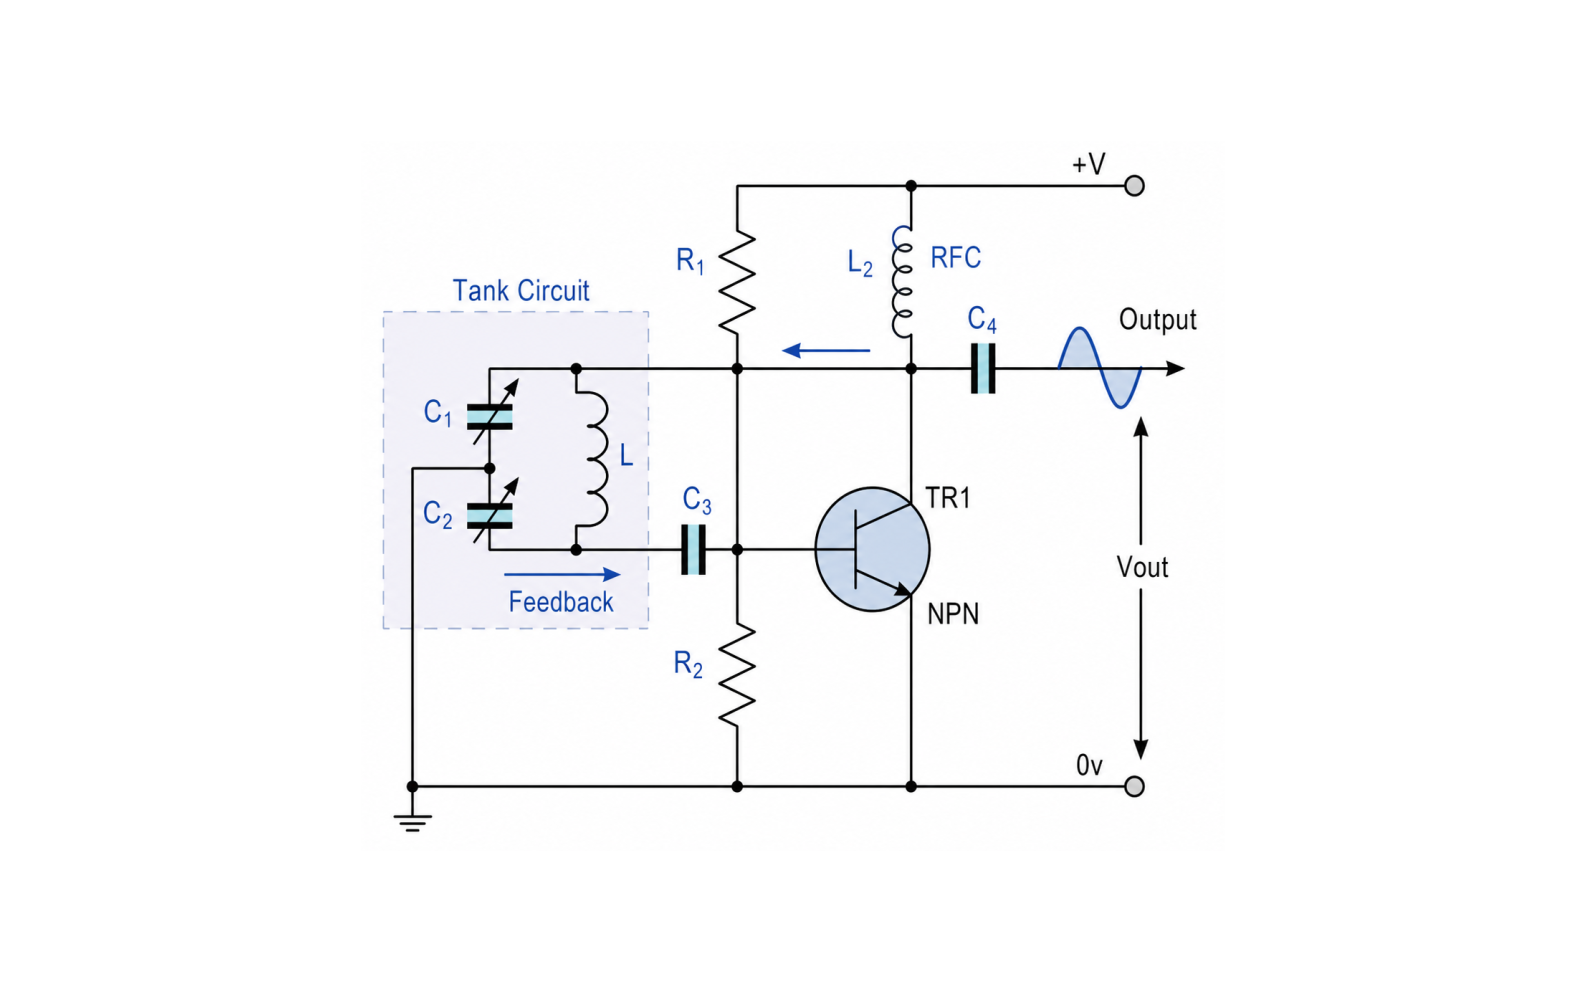
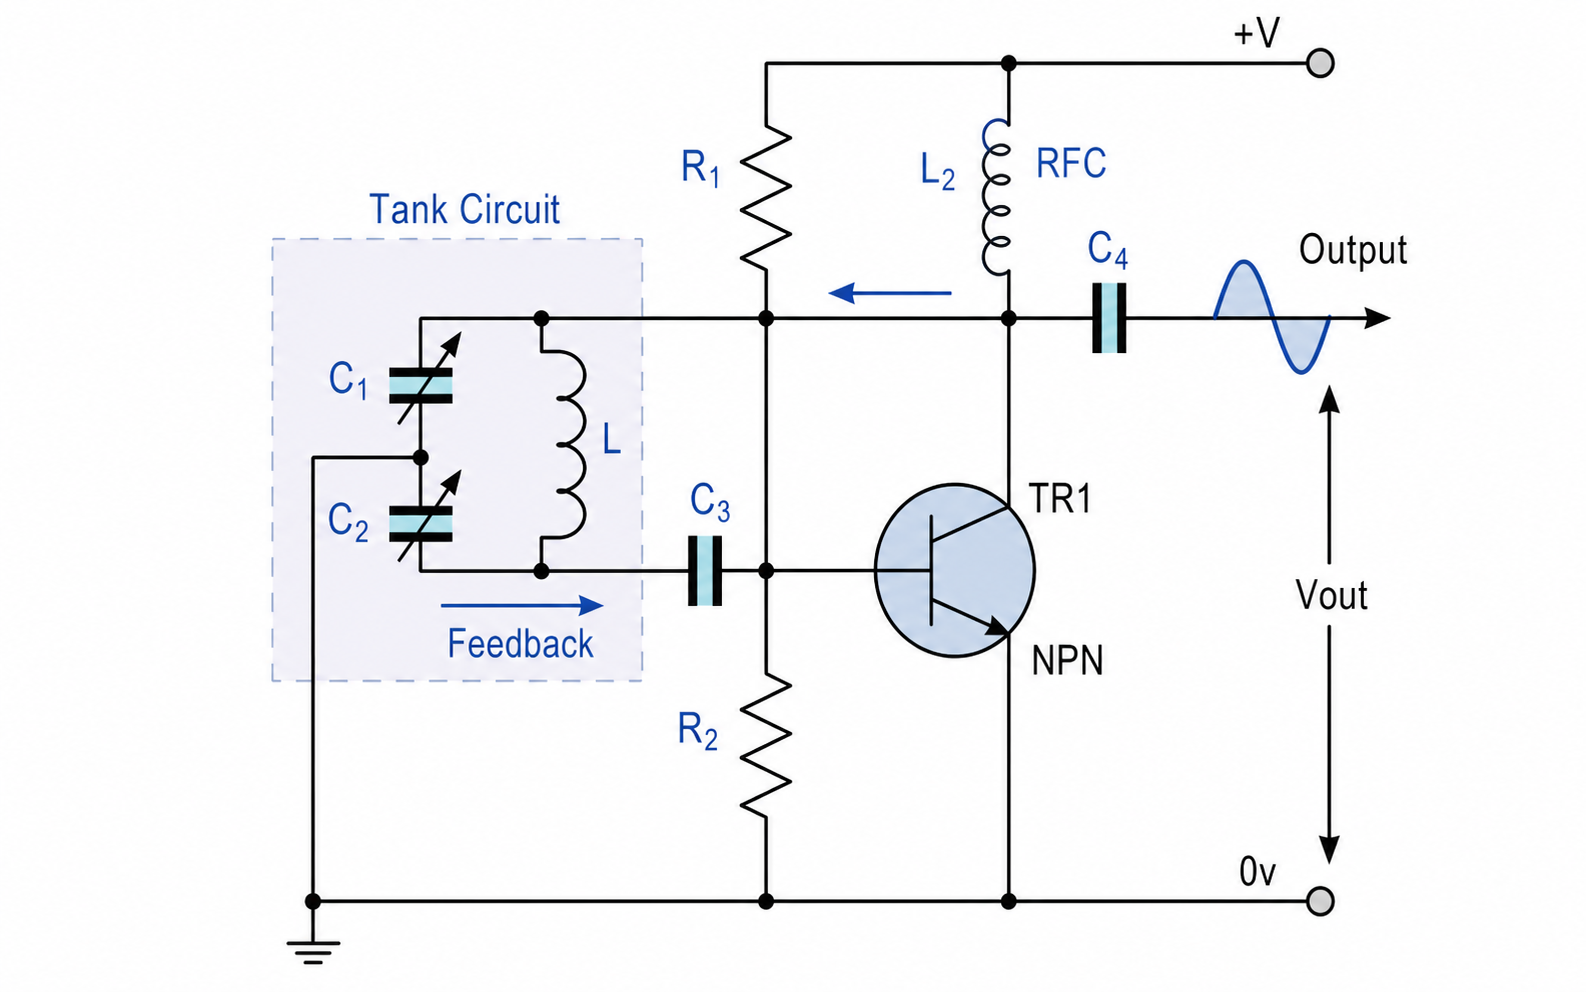
air core calculator

diff --git a/air-core.html b/air-core.html
@@ -1,0 +1,104 @@
+<!doctype html>
+<html lang="en">
+  <head>
+    <meta charset="utf-8" />
+    <meta name="viewport" content="width=device-width, initial-scale=1" />
+    <title>Air-Core Inductance Calculator | Institute of Applied Electrodynamics</title>
+    <meta name="description" content="Interactive single-layer air-core coil inductance calculator." />
+    <link rel="preconnect" href="https://fonts.googleapis.com" />
+    <link rel="preconnect" href="https://fonts.gstatic.com" crossorigin />
+    <link href="https://fonts.googleapis.com/css2?family=IBM+Plex+Mono:wght@400;500;600;700&family=Inter:wght@400;500;600;700;800&family=Source+Serif+4:opsz,wght@8..60,500;8..60,650&display=swap" rel="stylesheet" />
+    <link rel="stylesheet" href="styles.css" />
+  </head>
+  <body class="iae-calculator-page">
+    <header class="site-header" data-header>
+      <a class="brand" href="index.html#home" aria-label="Institute of Applied Electrodynamics home">
+        <img src="assets/field-mark.svg" alt="" />
+        <span><strong>IAE</strong><small>Institute of Applied Electrodynamics</small></span>
+      </a>
+      <nav class="nav" aria-label="Primary navigation">
+        <a href="index.html#mission">Mission</a>
+        <a href="index.html#scientists">Scientists</a>
+        <a href="index.html#log">Research Log</a>
+        <a href="tools.html" aria-current="page">Tools</a>
+        <a href="index.html#projects">Projects</a>
+        <a href="index.html#publications">Publications</a>
+        <a href="index.html#laboratory">Laboratory</a>
+        <a href="index.html#join">Join</a>
+      </nav>
+      <button class="nav-toggle" type="button" data-nav-toggle aria-label="Open navigation"><span></span><span></span></button>
+    </header>
+    <main class="iae-page-main">
+<section class="iae-tools-section" id="air-core-tool">
+  <div class="iae-calculator-workspace">
+    <div class="iae-tool-heading">
+      <a class="iae-back-command" href="tools.html">Back to tools</a>
+      <p class="eyebrow">Instrument 002 / Magnetics</p>
+      <h2>Air-Core Inductance Calculator</h2>
+      <p>Estimate a single-layer air-core coil using Wheeler's formula and compare it with the ideal long-solenoid model.</p>
+    </div>
+
+    <div class="iae-tool-layout">
+      <div class="iae-tool-reference">
+        <figure class="iae-technical-plate">
+          <figcaption><span>Fig. 02</span> Single-layer air-core coil geometry</figcaption>
+          <a class="iae-circuit-zoom" href="assets/air-core-coil-hd.png" target="_blank" title="Open full-resolution coil diagram">
+            <img src="assets/air-core-coil-hd.png" alt="Air-core coil with diameter, length, and turns labeled">
+          </a>
+        </figure>
+
+        <figure class="iae-technical-plate iae-formula-plate">
+          <figcaption><span>Eq. set B</span> Inductor formulas</figcaption>
+          <div class="iae-formula-sheet" aria-label="Air-core inductor formulas">
+            <div class="iae-formula-row"><span>Wheeler single-layer coil</span><math display="block"><mi>L</mi><mo>=</mo><mfrac><mrow><msup><mi>d</mi><mn>2</mn></msup><msup><mi>N</mi><mn>2</mn></msup></mrow><mrow><mn>18</mn><mi>d</mi><mo>+</mo><mn>40</mn><mi>l</mi></mrow></mfrac></math></div>
+            <div class="iae-formula-row"><span>Ideal air-core solenoid</span><math display="block"><mi>L</mi><mo>=</mo><mfrac><mrow><msub><mi>mu</mi><mn>0</mn></msub><msup><mi>N</mi><mn>2</mn></msup><mi>A</mi></mrow><mi>l</mi></mfrac></math></div>
+            <div class="iae-formula-row"><span>Cross-sectional area</span><math display="block"><mi>A</mi><mo>=</mo><mfrac><mrow><mi>pi</mi><msup><mi>d</mi><mn>2</mn></msup></mrow><mn>4</mn></mfrac></math></div>
+            <div class="iae-formula-row"><span>Inductive reactance</span><math display="block"><msub><mi>X</mi><mi>L</mi></msub><mo>=</mo><mn>2</mn><mi>pi</mi><mi>f</mi><mi>L</mi></math></div>
+            <div class="iae-formula-row"><span>Stored magnetic energy</span><math display="block"><mi>E</mi><mo>=</mo><mfrac><mn>1</mn><mn>2</mn></mfrac><mi>L</mi><msup><mi>I</mi><mn>2</mn></msup></math></div>
+          </div>
+        </figure>
+
+        <div class="iae-theory-note">
+          <h3>Model limits</h3>
+          <p>Wheeler's expression returns inductance in microhenries when diameter d and winding length l are entered in inches. It is intended for a single-layer cylindrical air-core coil.</p>
+          <p>The ideal solenoid comparison neglects end effects, winding pitch, wire diameter, insulation, lead inductance, and parasitic capacitance. Physical measurements will diverge as the winding becomes short, multilayered, or self-resonant.</p>
+        </div>
+      </div>
+
+      <aside class="iae-calculator-panel">
+        <div class="iae-calculator-header">
+          <div><p class="eyebrow">Live computation</p><h3>Coil geometry</h3></div>
+          <div class="iae-model-badge">Wheeler / Air core</div>
+        </div>
+
+        <form data-air-core-form>
+          <div class="iae-variable-grid">
+            <label class="iae-variable-field"><span>Coil diameter d</span><div><input name="diameter" type="number" min="0" step="any" value="2"><select name="diameterUnit"><option value="0.001">mm</option><option value="0.01">cm</option><option value="0.0254" selected>in</option></select></div></label>
+            <label class="iae-variable-field"><span>Winding length l</span><div><input name="length" type="number" min="0" step="any" value="3"><select name="lengthUnit"><option value="0.001">mm</option><option value="0.01">cm</option><option value="0.0254" selected>in</option></select></div></label>
+            <label class="iae-variable-field"><span>Number of turns N</span><div><input name="turns" type="number" min="1" step="1" value="50"><span class="iae-unit-static">turns</span></div></label>
+          </div>
+          <div class="iae-calculator-actions"><button type="button" data-air-core-reset>Reset example</button></div>
+        </form>
+
+        <p class="iae-calculation-warning" data-air-core-warning hidden>Enter positive values for diameter, winding length, and turns.</p>
+        <div class="iae-primary-result"><p>Wheeler inductance</p><strong data-air-primary-value>-</strong><span>Single-layer air-core estimate</span></div>
+        <dl class="iae-result-grid">
+          <div><dt>Ideal solenoid comparison</dt><dd data-air-result="solenoid">-</dd></div>
+          <div><dt>Cross-sectional area</dt><dd data-air-result="area">-</dd></div>
+          <div><dt>Turn density</dt><dd data-air-result="density">-</dd></div>
+          <div><dt>Length / diameter ratio</dt><dd data-air-result="ratio">-</dd></div>
+          <div class="iae-wide-result"><dt>Approximate conductor length</dt><dd data-air-result="wire">-</dd></div>
+        </dl>
+        <button type="button" class="iae-copy-calculation" data-copy-air-core>Copy calculation summary</button>
+      </aside>
+    </div>
+  </div>
+</section>
+    </main>
+    <footer class="site-footer">
+      <p>Institute of Applied Electrodynamics</p>
+      <p>Potential. Field. Apparatus. Record.</p>
+    </footer>
+    <script src="tools.js"></script>
+  </body>
+</html>

diff --git a/tools.js b/tools.js
@@ -52,3 +52,35 @@ document.addEventListener("click",event=>{
   if(button.matches("[data-site-copy-colpitts]")&&siteColpittsSummary){navigator.clipboard.writeText(siteColpittsSummary).then(()=>{const original=button.textContent;button.textContent="Calculation copied";setTimeout(()=>button.textContent=original,1600)})}
 });
 calculateSiteColpitts();
+// Air-core inductance calculator
+const airCoreForm=document.querySelector("[data-air-core-form]");
+let airCoreSummary="";
+function airMetric(value,kind){
+  if(!Number.isFinite(value))return "-";
+  const sets={inductance:[[1,"H"],[1e-3,"mH"],[1e-6,"uH"],[1e-9,"nH"]],length:[[1,"m"],[1e-2,"cm"],[1e-3,"mm"]],area:[[1,"m2"],[1e-4,"cm2"],[1e-6,"mm2"]],density:[[1e3,"turns/mm"],[1e2,"turns/cm"],[1,"turns/m"]]};
+  const set=sets[kind],unit=set.find(item=>Math.abs(value)>=item[0])||set[set.length-1];
+  return (value/unit[0]).toLocaleString(undefined,{maximumSignificantDigits:6})+" "+unit[1];
+}
+function calculateAirCore(){
+  if(!airCoreForm)return;
+  const d=new FormData(airCoreForm),diameter=+d.get("diameter")*+d.get("diameterUnit"),length=+d.get("length")*+d.get("lengthUnit"),turns=+d.get("turns");
+  const valid=[diameter,length,turns].every(value=>Number.isFinite(value)&&value>0);
+  document.querySelector("[data-air-core-warning]").hidden=valid;
+  if(!valid){document.querySelector("[data-air-primary-value]").textContent="-";document.querySelectorAll("[data-air-result]").forEach(node=>node.textContent="-");airCoreSummary="";return}
+  const diameterIn=diameter/0.0254,lengthIn=length/0.0254;
+  const wheelerUH=(diameterIn*diameterIn*turns*turns)/(18*diameterIn+40*lengthIn),wheelerH=wheelerUH*1e-6;
+  const mu0=4*Math.PI*1e-7,area=Math.PI*Math.pow(diameter/2,2),solenoidH=mu0*turns*turns*area/length;
+  const density=turns/length,ratio=length/diameter,wireLength=Math.PI*diameter*turns;
+  document.querySelector("[data-air-primary-value]").textContent=airMetric(wheelerH,"inductance");
+  const put=(key,value)=>document.querySelector('[data-air-result="'+key+'"]').textContent=value;
+  put("solenoid",airMetric(solenoidH,"inductance"));put("area",airMetric(area,"area"));put("density",airMetric(density,"density"));put("ratio",ratio.toLocaleString(undefined,{maximumSignificantDigits:6}));put("wire",airMetric(wireLength,"length"));
+  airCoreSummary=["IAE / Air-Core Inductance Calculation","Coil diameter: "+airMetric(diameter,"length"),"Winding length: "+airMetric(length,"length"),"Number of turns: "+turns.toLocaleString(),"Wheeler inductance: "+airMetric(wheelerH,"inductance"),"Ideal solenoid comparison: "+airMetric(solenoidH,"inductance"),"Cross-sectional area: "+airMetric(area,"area"),"Turn density: "+airMetric(density,"density"),"Length / diameter ratio: "+ratio.toPrecision(6),"Approximate conductor length: "+airMetric(wireLength,"length")].join("\n");
+}
+airCoreForm?.addEventListener("input",calculateAirCore);
+airCoreForm?.addEventListener("change",calculateAirCore);
+document.addEventListener("click",event=>{
+  const button=event.target.closest("button");if(!button)return;
+  if(button.matches("[data-air-core-reset]")){airCoreForm.reset();calculateAirCore()}
+  if(button.matches("[data-copy-air-core]")&&airCoreSummary){navigator.clipboard.writeText(airCoreSummary).then(()=>{const original=button.textContent;button.textContent="Calculation copied";setTimeout(()=>button.textContent=original,1600)})}
+});
+calculateAirCore();

diff --git a/tools.html b/tools.html
@@ -48,7 +48,16 @@
             <a class="iae-tool-command" href="colpitts.html">Open calculator</a>
           </div>
         </article>
-      </div>
+
+        <article class="iae-tool-card">
+          <figure><img src="assets/air-core-coil-hd.png" alt="Air-core solenoid geometry"></figure>
+          <div class="iae-tool-card-copy">
+            <p class="iae-tool-index">Instrument 002 / Magnetics</p>
+            <h3>Air-Core Inductance Calculator</h3>
+            <p>Estimate the inductance of a single-layer air-core coil from its diameter, winding length, and number of turns.</p>
+            <a class="iae-tool-command" href="air-core.html">Open calculator</a>
+          </div>
+        </article>      </div>
     </section>
     </main>
     <footer class="site-footer">

diff --git a/styles.css b/styles.css
@@ -1152,3 +1152,6 @@ textarea {
   .iae-page-heading>p{margin-top:14px}
   .iae-tool-heading .iae-back-command{margin-bottom:26px}
 }
+.iae-model-badge{background:#eef5f74f;border:1px solid var(--line);color:var(--ink);font:700 11px/1 "IBM Plex Mono",monospace;padding:10px 12px;text-transform:uppercase}
+.iae-unit-static{align-items:center;background:#434343;border:1px solid var(--line);border-left:0;color:#fff;display:flex;font:600 12px/1 "IBM Plex Mono",monospace;justify-content:center;padding:12px}
+.iae-tool-catalog{gap:22px}